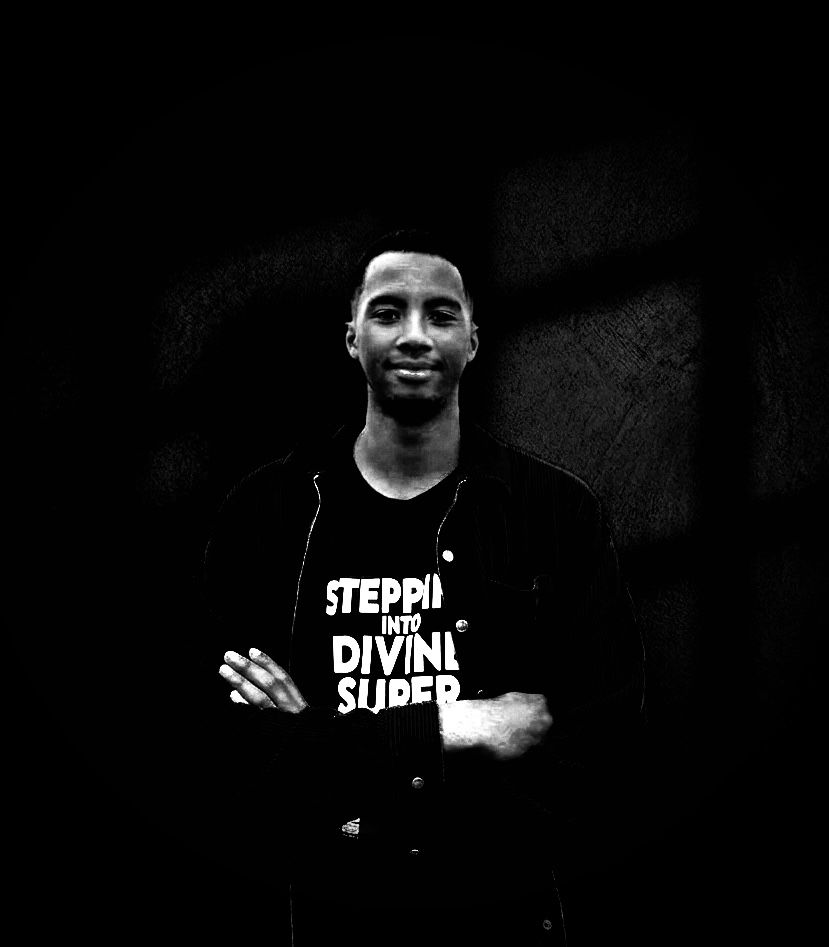
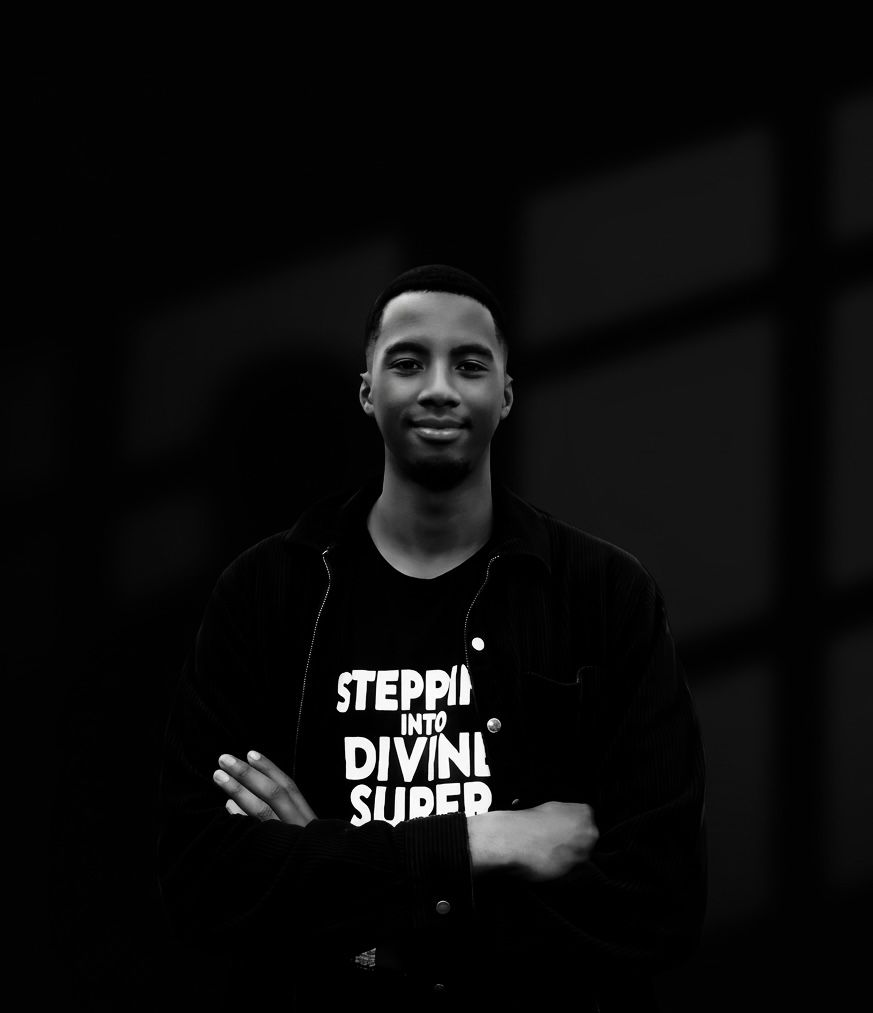
maj contact

diff --git a/index.html b/index.html
@@ -103,10 +103,10 @@
                     </div>
 
                     <ul class="intro-social">
-                        <li><a href="#0">Facebook</a></li>
-                        <li><a href="#0">WhatsApp</a></li>
-                        <li><a href="#0">X</a></li>
-                        <li><a href="#0">Instagram</a></li>
+                        <li><a href="https://www.facebook.com/share/18Wc1Fxx6k/?mibextid=wwXlfr">Facebook</a></li>
+                        <li><a href="+261346171642">WhatsApp</a></li>
+                        <li><a href="https://x.com/nyainahart?s=21">X</a></li>
+                        <li><a href="https://www.instagram.com/ainaharitiana?igsh=MTFveTFtNHRnbjRjeg%3D&utm_source=qr">Instagram</a></li>
                     </ul>
 
                 </div> <!-- end intro content -->
@@ -544,17 +544,17 @@
                         <h3 class="text-pretitle">Reach me at</h3>
                         <p class="contact-links">
                             <a href="mailto:[email redacted]" class="mailtoui">ainaramandimby@gmail<br>.com</a> <br>
-                            <a href="tel:+1975432345">+261 34 61 716 42</a>
+                            <a href="tel:+261346171642">+261 34 61 716 42</a>
                         </p>
                     </div>
                     <div class="column lg-4 md-6 tab-6 stack-on-550 contact-block">
                         <h3 class="text-pretitle">Social</h3>
                         <ul class="contact-social">
-                            <li><a href="#0">Facebook</a></li>
-                            <li><a href="#0">WhatsApp</a></li>
-                            <li><a href="#0">X</a></li>
-                            <li><a href="#0">Instagram</a></li>
-                            <li><a href="#0">Github</a></li>
+                            <li><a href="https://www.facebook.com/share/18Wc1Fxx6k/?mibextid=wwXlfr">Facebook</a></li>
+                            <li><a href="+261346171642">WhatsApp</a></li>
+                            <li><a href="https://x.com/nyainahart?s=21">X</a></li>
+                            <li><a href="https://www.instagram.com/ainaharitiana?igsh=MTFveTFtNHRnbjRjeg%3D&utm_source=qr">Instagram</a></li>
+                            <li><a href="https://github.com/nyHaritiana">Github</a></li>
                         </ul>
                     </div>
                     <div class="column lg-4 md-12 contact-block">